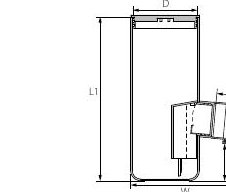
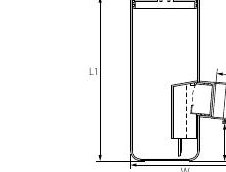
WIP(huliot): v43 — p21_c PHOTO_H 180→200 (base was cut) — local only
User feedback during photo-by-photo review. NO PUSH.

https://claude.ai/code/session_012bheWSnPnqWCqTErtCLGfz

diff --git a/app_flutter/scripts/crop_huliot.py b/app_flutter/scripts/crop_huliot.py
@@ -111,7 +111,7 @@ PER_BAND_PHOTO_H = {
     # Page 21 — drains scale with size (re-measured)
     (21, 'a'): 118,    # drain 80/50 photo 170-275; diagram ~290
     (21, 'b'): 165,    # drain 140/50 photo 460-625; tick at y=635 trimmed
-    (21, 'c'): 180,    # drain 245/50 photo 840-1010; diagram ~1025
+    (21, 'c'): 200,    # drain 245/50 — base was cut
     # Page 22 — drains open
     (22, 'a'): 155,
     (22, 'b'): 180,
